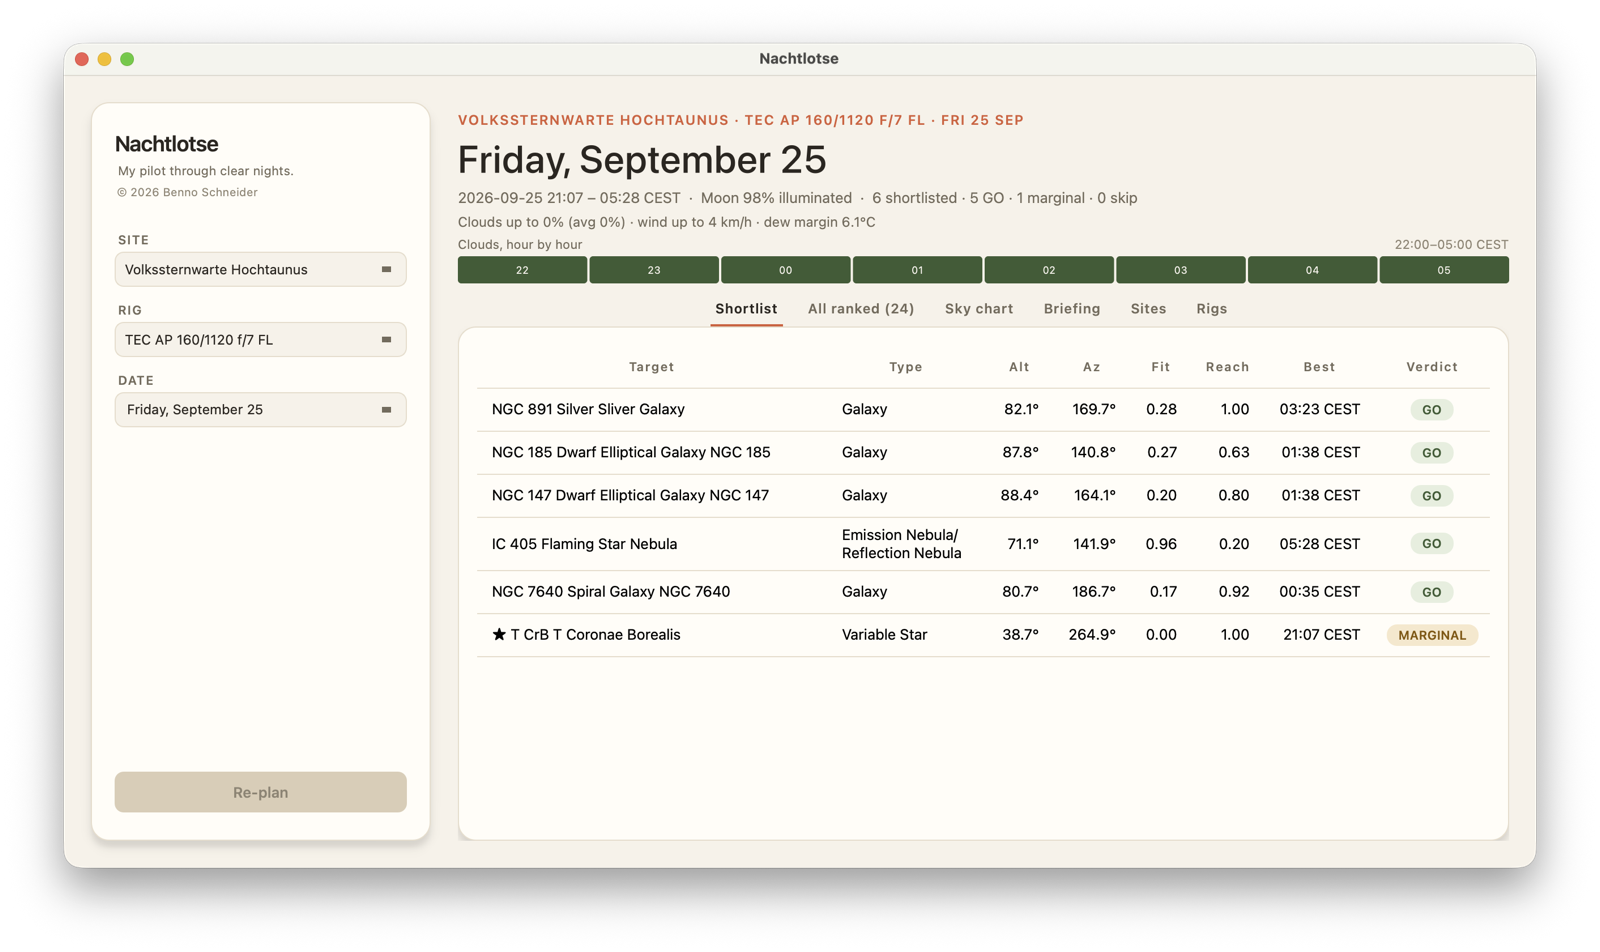
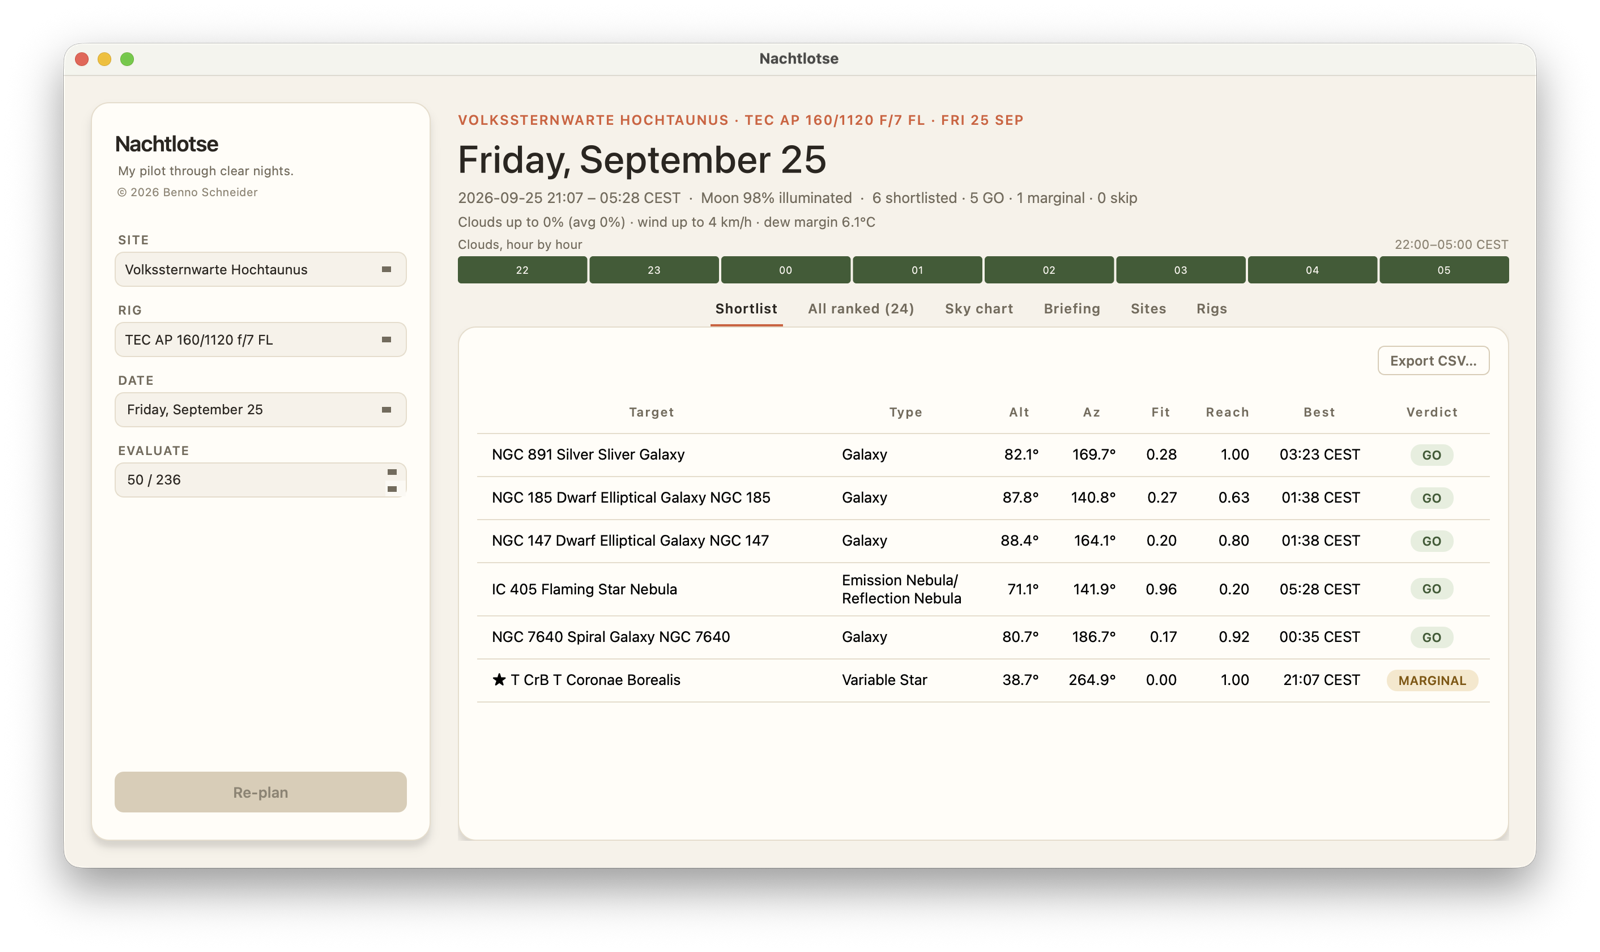
GUI evaluation limit in the sidebar (3.1.0)
lotse gui called planning.plan_night without a limit, silently
inheriting the CLI's own DEFAULT_MAX_EVALUATED (50) cap with no way to
change it from the sidebar. Adds an "EVALUATE" spin box next to
Site/Rig/Date, showing "50 / 236" (staged value / the real catalog
size, read from data.catalog.CATALOG) and hard-capped at that size —
anything past it would just re-evaluate the same whole catalog. 0 is
special-cased to "Unlimited (236)", mirroring the CLI's own
`--limit 0`.

Sidebar.replan_requested now carries the limit alongside site/rig/date;
main_window.py threads it through _replan/_PlanWorker into plan_night.

Fixes screenshots/update_screenshots.py's now-broken 3-arg _replan()
call, and regenerates both README screenshots to match. ROADMAP.md:
item closed and renumbered.

diff --git a/nachtlotse/gui/sidebar.py b/nachtlotse/gui/sidebar.py
@@ -20,10 +20,19 @@ from datetime import date
 
 from PySide6.QtCore import QDate, QLocale, Signal
 from PySide6.QtGui import QColor, QTextCharFormat
-from PySide6.QtWidgets import QComboBox, QDateEdit, QLabel, QPushButton, QVBoxLayout
+from PySide6.QtWidgets import (
+    QComboBox,
+    QDateEdit,
+    QLabel,
+    QPushButton,
+    QSpinBox,
+    QVBoxLayout,
+)
 
+from nachtlotse.data.catalog import CATALOG
 from nachtlotse.data.store import RigRecord, SiteRecord
 from nachtlotse.gui.theme import COLORS, RoundedCard, label_style
+from nachtlotse.planning import DEFAULT_MAX_EVALUATED
 
 SIDEBAR_WIDTH = 300
 
@@ -32,7 +41,7 @@ class Sidebar(RoundedCard):
     """Emits `replan_requested` with the currently-staged (site record,
     rig record, date) when the user clicks Re-plan."""
 
-    replan_requested = Signal(object, object, date)
+    replan_requested = Signal(object, object, date, int)
 
     def __init__(self, sites: list[SiteRecord], rigs: list[RigRecord]) -> None:
         super().__init__()
@@ -72,7 +81,7 @@ class Sidebar(RoundedCard):
         layout.addWidget(copyright_label)
 
         picker_style = f"""
-            QComboBox, QDateEdit {{
+            QComboBox, QDateEdit, QSpinBox {{
                 background: {COLORS['cream']};
                 border: 1px solid {COLORS['border']};
                 border-radius: 8px;
@@ -98,6 +107,34 @@ class Sidebar(RoundedCard):
                 border-right: 4px solid transparent;
                 border-top: 5px solid {COLORS['ink_secondary']};
                 margin-right: 10px;
+            }}
+            QSpinBox::up-button, QSpinBox::down-button {{
+                border: none;
+                width: 18px;
+                subcontrol-origin: padding;
+            }}
+            QSpinBox::up-button {{ subcontrol-position: top right; }}
+            QSpinBox::down-button {{ subcontrol-position: bottom right; }}
+            QSpinBox::up-button:hover, QSpinBox::down-button:hover {{
+                background: {COLORS['cream_hover']};
+            }}
+            QSpinBox::up-arrow {{
+                image: none;
+                width: 0px;
+                height: 0px;
+                border-left: 4px solid transparent;
+                border-right: 4px solid transparent;
+                border-bottom: 5px solid {COLORS['ink_secondary']};
+                margin-right: 6px;
+            }}
+            QSpinBox::down-arrow {{
+                image: none;
+                width: 0px;
+                height: 0px;
+                border-left: 4px solid transparent;
+                border-right: 4px solid transparent;
+                border-top: 5px solid {COLORS['ink_secondary']};
+                margin-right: 6px;
             }}
             QComboBox QAbstractItemView {{
                 background: {COLORS['paper']};
@@ -165,7 +202,42 @@ class Sidebar(RoundedCard):
         today_format.setFontWeight(700)
         self.date_edit.calendarWidget().setDateTextFormat(QDate.currentDate(), today_format)
 
-        for widget in (site_label, self.site_combo, rig_label, self.rig_combo, date_label, self.date_edit):
+        catalog_size = len(CATALOG)
+
+        limit_label = QLabel("EVALUATE")
+        limit_label.setStyleSheet(field_label_style)
+        self.limit_spin = QSpinBox()
+        # Capped to the catalog's own size, not some arbitrary headroom
+        # number — past that, every larger value would evaluate the exact
+        # same (whole) catalog anyway, so the spinbox shouldn't imply
+        # there's a difference. Grows with the catalog on its own, since
+        # this reads `len(CATALOG)` fresh at construction time.
+        self.limit_spin.setRange(0, catalog_size)
+        self.limit_spin.setSingleStep(10)
+        self.limit_spin.setValue(min(DEFAULT_MAX_EVALUATED, catalog_size))
+        self.limit_spin.setSuffix(f" / {catalog_size}")
+        # 0 is otherwise just "0 catalog objects", a pointless plan — reused
+        # as "no cap" instead, mirroring the CLI's own `--limit 0`
+        # ("evaluate every catalog object"). Qt drops the suffix above for
+        # this special value, so it's spelled out here instead.
+        self.limit_spin.setSpecialValueText(f"Unlimited ({catalog_size})")
+        self.limit_spin.setToolTip(
+            f"How many of the {catalog_size} catalog objects (matching any\n"
+            "type filter) get evaluated, not how many end up shortlisted.\n"
+            "0 evaluates every one of them — slower, but nothing is skipped."
+        )
+        self.limit_spin.setStyleSheet(picker_style)
+
+        for widget in (
+            site_label,
+            self.site_combo,
+            rig_label,
+            self.rig_combo,
+            date_label,
+            self.date_edit,
+            limit_label,
+            self.limit_spin,
+        ):
             layout.addWidget(widget)
 
         layout.addStretch(1)
@@ -200,6 +272,7 @@ class Sidebar(RoundedCard):
         self.site_combo.currentIndexChanged.connect(self._mark_dirty)
         self.rig_combo.currentIndexChanged.connect(self._mark_dirty)
         self.date_edit.dateChanged.connect(self._mark_dirty)
+        self.limit_spin.valueChanged.connect(self._mark_dirty)
 
     def _mark_dirty(self, *_args: object) -> None:
         self.replan_button.setEnabled(True)
@@ -208,7 +281,7 @@ class Sidebar(RoundedCard):
         site_record = self._sites[self.site_combo.currentIndex()]
         rig_record = self._rigs[self.rig_combo.currentIndex()]
         selected_date = self.date_edit.date().toPython()
-        self.replan_requested.emit(site_record, rig_record, selected_date)
+        self.replan_requested.emit(site_record, rig_record, selected_date, self.limit_spin.value())
         self.replan_button.setEnabled(False)
 
     def current_site_record(self) -> SiteRecord:
@@ -219,3 +292,6 @@ class Sidebar(RoundedCard):
 
     def current_date(self) -> date:
         return self.date_edit.date().toPython()
+
+    def current_limit(self) -> int:
+        return self.limit_spin.value()

diff --git a/nachtlotse/gui/main_window.py b/nachtlotse/gui/main_window.py
@@ -156,15 +156,16 @@ class _PlanWorker(QThread):
     succeeded = Signal(object)
     failed = Signal(str)
 
-    def __init__(self, site: Site, rig: Rig, when: datetime) -> None:
+    def __init__(self, site: Site, rig: Rig, when: datetime, limit: int) -> None:
         super().__init__()
         self._site = site
         self._rig = rig
         self._when = when
+        self._limit = limit
 
     def run(self) -> None:
         try:
-            plan = planning.plan_night(self._site, self._rig, self._when)
+            plan = planning.plan_night(self._site, self._rig, self._when, limit=self._limit)
         except Exception as exc:  # noqa: BLE001 — surface any failure to the UI, don't crash it
             self.failed.emit(str(exc))
             return
@@ -302,6 +303,7 @@ class MainWindow(QMainWindow):
             self.sidebar.current_site_record(),
             self.sidebar.current_rig_record(),
             self.sidebar.current_date(),
+            self.sidebar.current_limit(),
         )
 
     @staticmethod
@@ -414,7 +416,7 @@ class MainWindow(QMainWindow):
         return table
 
     def _replan(
-        self, site_record: SiteRecord, rig_record: RigRecord, selected_date: date
+        self, site_record: SiteRecord, rig_record: RigRecord, selected_date: date, limit: int
     ) -> None:
         site = site_record.site
         rig = rig_record.rig
@@ -429,7 +431,7 @@ class MainWindow(QMainWindow):
         self.hourly_cloud_bar.hide()
         QApplication.setOverrideCursor(Qt.WaitCursor)
 
-        self._worker = _PlanWorker(site, rig, when)
+        self._worker = _PlanWorker(site, rig, when, limit)
         self._worker.succeeded.connect(
             lambda plan: self._on_plan_ready(plan, local_tz, site, rig, selected_date)
         )

diff --git a/screenshots/update_screenshots.py b/screenshots/update_screenshots.py
@@ -111,7 +111,7 @@ def main() -> int:
     sidebar.date_edit.setDate(QDate(TARGET_DATE.year, TARGET_DATE.month, TARGET_DATE.day))
     sidebar.replan_button.setEnabled(False)
 
-    window._replan(site_record, rig_record, TARGET_DATE)
+    window._replan(site_record, rig_record, TARGET_DATE, sidebar.current_limit())
     _pump(app, window, 20.0)
 
     window_id = _find_window_id(window.windowTitle())

diff --git a/ROADMAP.md b/ROADMAP.md
@@ -8,17 +8,16 @@ below must still follow, see [CLAUDE.md](./CLAUDE.md).
 
 ## Ideas for after the MVP, in priority order
 
-1. **GUI evaluation limit:** `lotse gui` calls `planning.plan_night`
-   without a `limit`, so it already inherits the same
-   `DEFAULT_MAX_EVALUATED` (50) cap the CLI defaults to — but unlike the
-   CLI's own `--limit` flag, there's no sidebar control to change it
-   (evaluate more, fewer, or 0/unlimited).
-2. **Session log:** record what's already been captured, and when — total
+1. **"Best sky" in the GUI:** `best_sky.py`/`lotse best-sky` (cross-site
+  forecast cloud-cover comparison) has no GUI surface yet — the GUI can
+  only plan for whichever single site is picked in the sidebar, not
+  answer "which of my configured sites has the clearest sky tonight."
+2. **Current events:** well-placed comets, supernova alerts; later also minor
+   planets/asteroids and near-Earth objects (NEOs).
+3. **Session log:** record what's already been captured, and when — total
    exposure time per target, logged per session. Prior exposure on a target
    is informational, not a deterrent; it doesn't mean the target drops out of
    contention, more can still be worth shooting. No attached photos.
-3. **Current events:** well-placed comets, supernova alerts; later also minor
-   planets/asteroids and near-Earth objects (NEOs).
 4. **Framing preview for selected targets:** render what a target would
    actually look like through the given rig — its angular size/shape
    against the rig's field of view (from `framing.py`'s FoV/fill-fraction
@@ -78,10 +77,6 @@ up when it fits, not in any particular order.
   export to a `QWidget.grab()` of the live canvas (that would drop
   the legend, which lives in a separate card/widget — see the "not
   trivial" note on the Export item above).
-- **"Best sky" in the GUI:** `best_sky.py`/`lotse best-sky` (cross-site
-  forecast cloud-cover comparison) has no GUI surface yet — the GUI can
-  only plan for whichever single site is picked in the sidebar, not
-  answer "which of my configured sites has the clearest sky tonight."
 - **In-app sites/rigs editor:** the Sites/Rigs screens are read-only —
   `sites_local.yaml`/`rigs_local.yaml` stay hand-edited for now. An
   editor that round-trips them without mangling existing comments/
